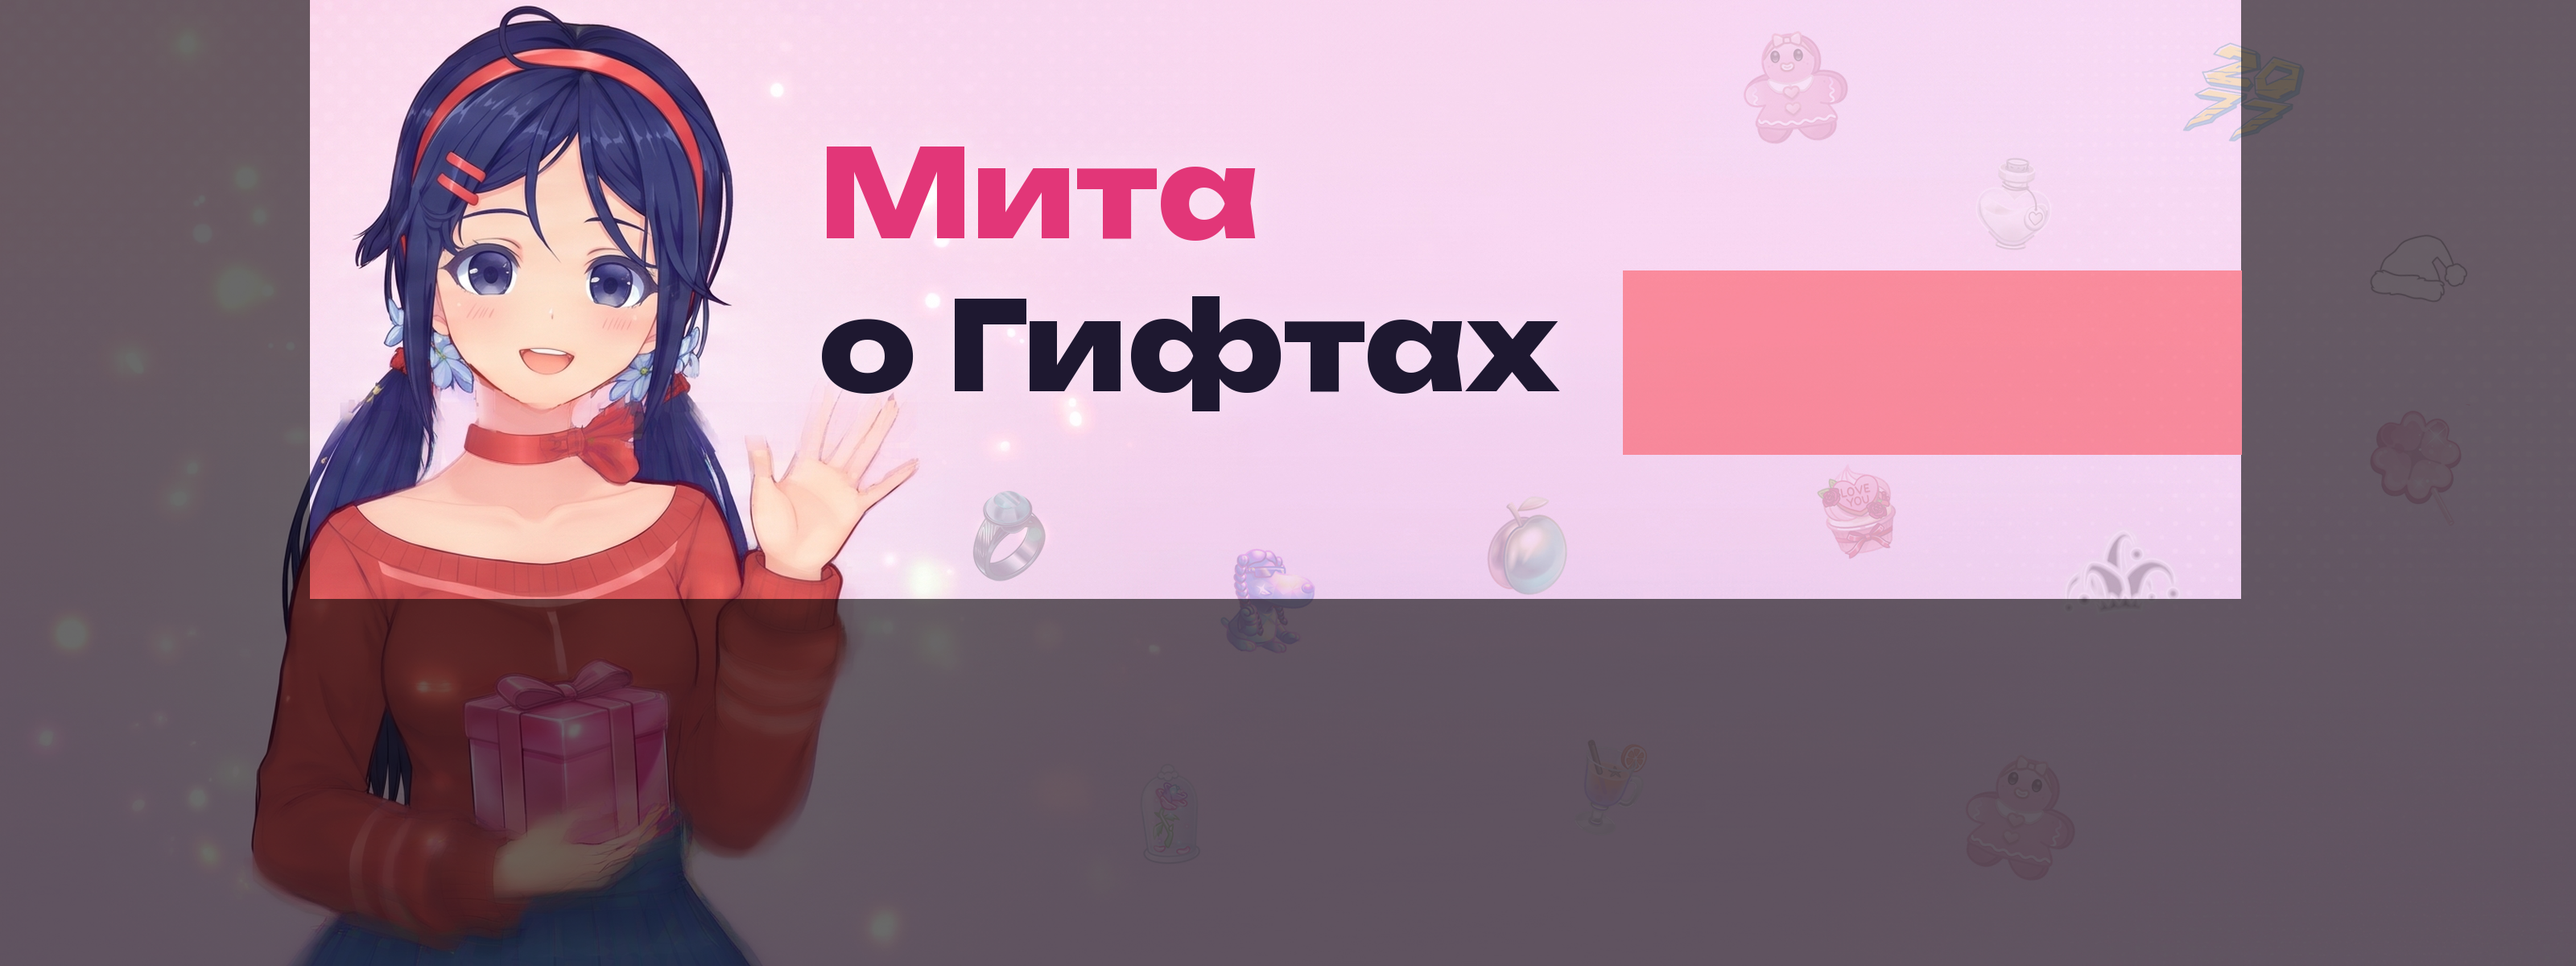
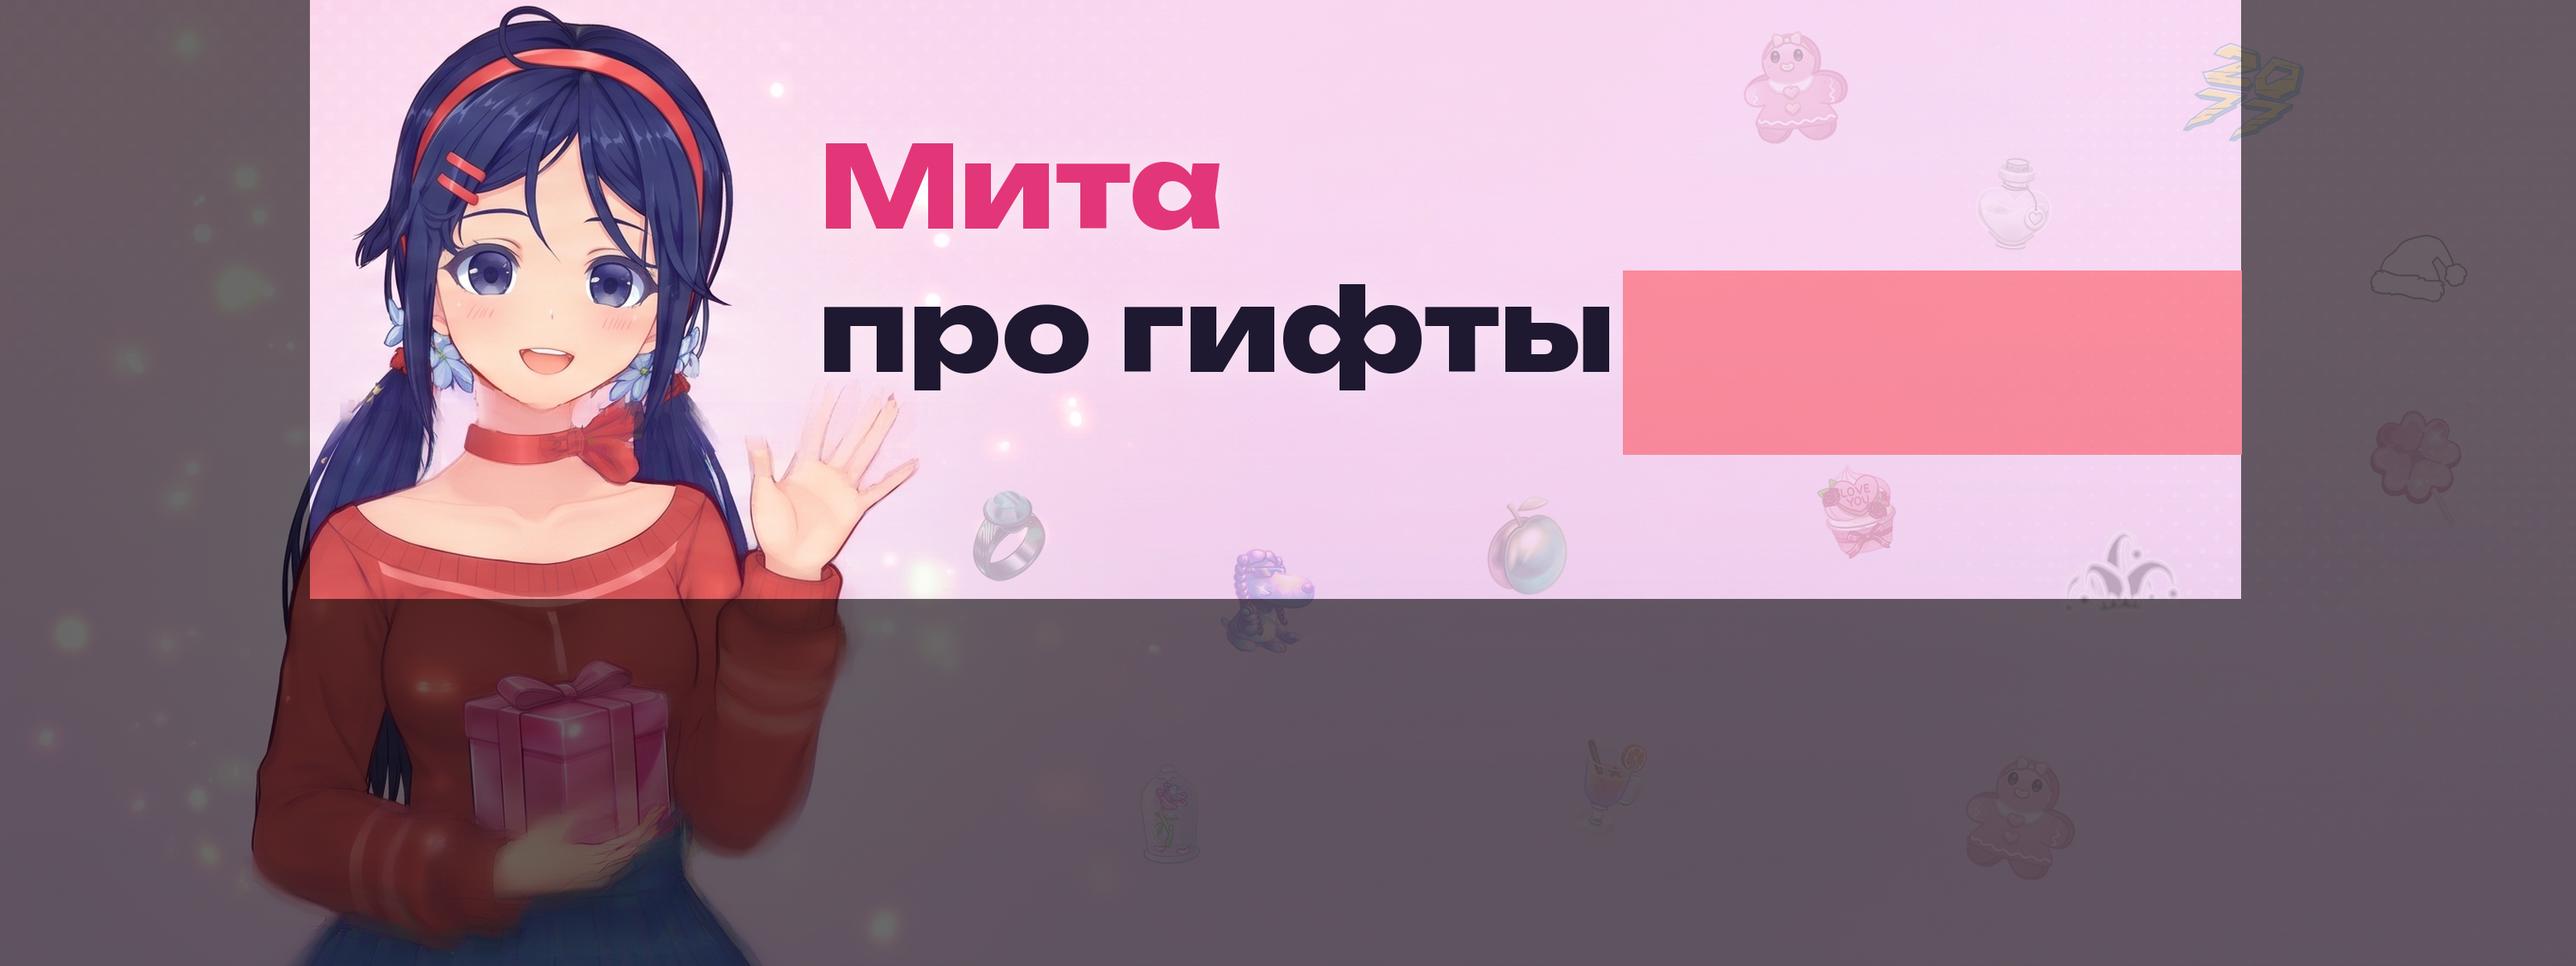
49-mita-monochrome: баннер — «Мита про гифты»
Claude-Session: https://claude.ai/code/session_012PNwYZXdw6QfqQCMnTcc5j

Changed region(s): [[0.3125, 0.2775, 0.625, 0.4317], [0.3125, 0.1542, 0.5, 0.2467]]

diff --git a/projects/49-mita-monochrome/channel/make_banner_wide.py b/projects/49-mita-monochrome/channel/make_banner_wide.py
@@ -19,12 +19,12 @@ if im.width < W:                                    # дотянуть фон в
 im = im.crop((0, 0, W, H))
 INK, PINK = (30, 24, 48), (226, 54, 120)
 font = lambda w, z: ImageFont.truetype(str(F / f'Unbounded-{w}.ttf'), z)
-f1 = font('ExtraBold', 152)
+f1 = font('ExtraBold', 140)
 # Видимая зона профиля TikTok (по скриншоту автора): по горизонтали ≈0,12–0,87 W; снизу ≈0,62 H закрывает имя;
 # справа (x > 0,63 W, y 0,28–0,47 H) — кнопки. Надпись — в две строки вплотную к Мите, в верхней части.
 x = int(W * 0.318); y = int(H * 0.12)
-lines = [('Мита', PINK), ('о Гифтах', INK)]
-LH = 190
+lines = [('Мита', PINK), ('про гифты', INK)]
+LH = 178
 # декор: бледные NFT-модели справа и под надписью, вне зоны текста
 gifts = [('Ginger Cookie', 'Sweetheart'), ('Love Potion', 'Milkshake'), ('Big Year', 'Cyberpunk'), ('Santa Hat', 'Inky White'),
          ('Whip Cupcake', 'Sweetheart'), ('Jester Hat', 'Neon White'), ('Clover Pin', 'Lollipop'), ('Gem Signet', 'Moonstone'),
